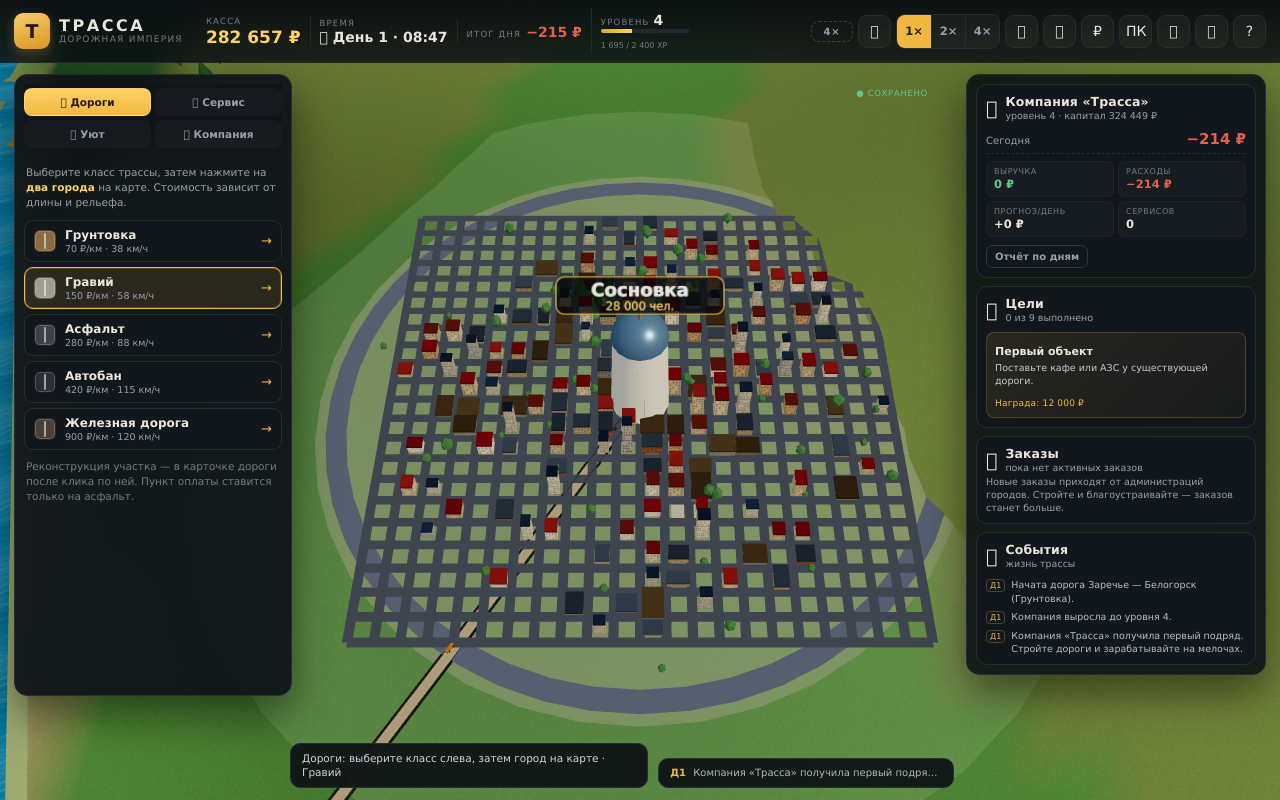
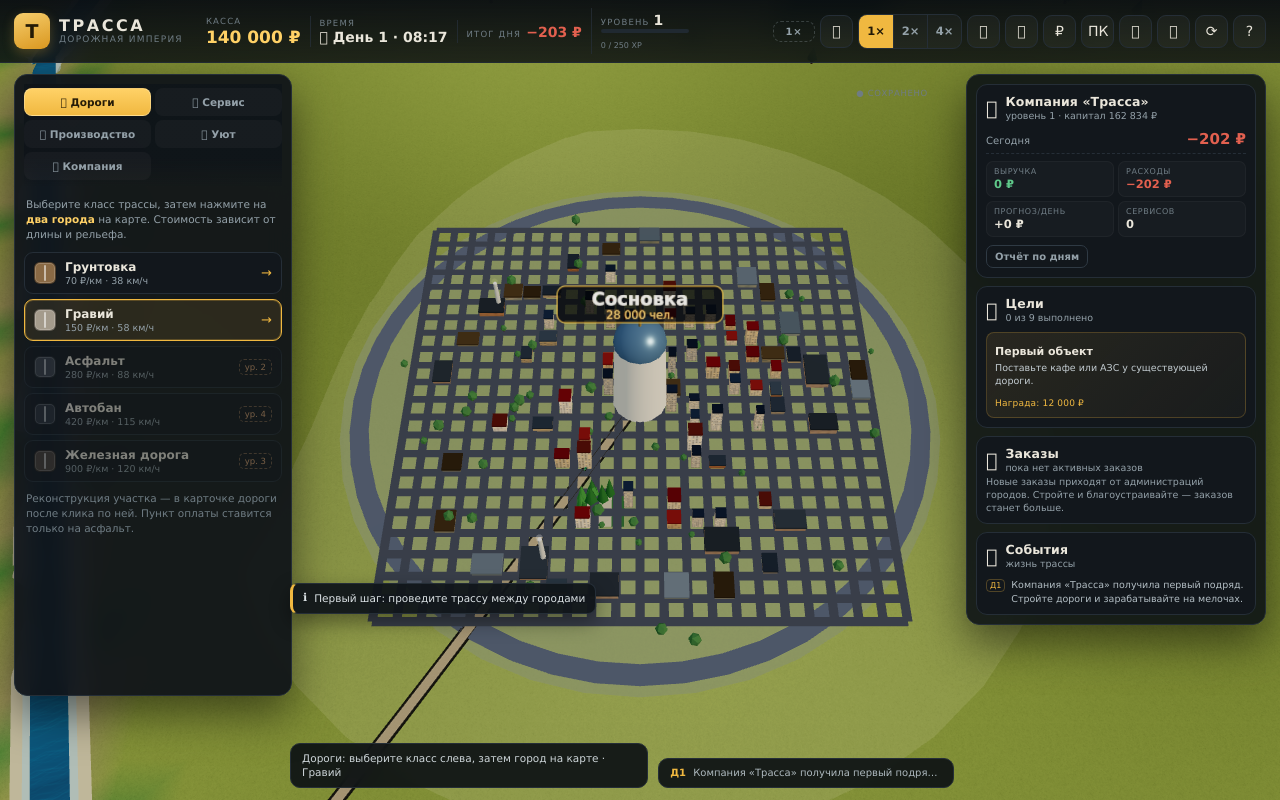
ТРАССА v1.8.1: детальные модели бизнесов, трубы промзоны, море
- facilityMesh: АЗС с пилон-стелой и магазином, кафе с маркизой и столиками, отель с балконами и бассейном,
  склад с доками и погрузчиком, цех с пилообразной крышей, элеватор с транспортёром и др.
- промзона: дымовые трубы с дымом у цехов
- море на юге карты: склон, пляж, мелководье, прибой; камыш у озёр

diff --git a/road-tycoon/src/view3d.js b/road-tycoon/src/view3d.js
@@ -268,6 +268,12 @@
     }
     const n = world.noise(x * 0.006, z * 0.006);
     h += (n - 0.5) * 0.7;
+    // Морской берег на юге карты: рельеф плавно уходит под воду
+    const coast = C.worldH - 58;
+    if (z > coast) {
+      const k = U.clamp((z - coast) / 22, 0, 1);
+      h = h * (1 - k) - 1.4 * k;
+    }
     return h;
   }
 
@@ -426,6 +432,8 @@
         else if (b === 'field') c = cField;
         else if (b === 'hill') c = cHill;
         if (Wd.riverDist(world, x, z) < 2.6 || Wd.lakeFactor(world, x, z) > 0.5) c = cSand;
+        if (z > C.worldH - 62) c = cSand;                      // пляж у моря
+        else if (z > C.worldH - 78) c = cField;                // прибрежные дюны
         const l = 0.9 + world.noise(x * 0.02, z * 0.02) * 0.22;
         col.push(c.r * l, c.g * l, c.b * l);
       }
@@ -504,6 +512,29 @@
       }
     }
 
+    // Море на юге карты: пляж, полоса прибоя и вода до самого края
+    {
+      const coastZ = C.worldH - 58;
+      const beach = new THREE.Mesh(new THREE.PlaneGeometry(C.worldW * 1.4, 26), sandMat.clone());
+      beach.rotation.x = -Math.PI / 2;
+      beach.position.set(C.worldW / 2, 0.055, coastZ - 2);
+      waterGroup.add(beach);
+      const shore = new THREE.Mesh(new THREE.PlaneGeometry(C.worldW * 1.4, 34), shallowMat);
+      shore.rotation.x = -Math.PI / 2;
+      shore.position.set(C.worldW / 2, 0.075, coastZ + 18);
+      waterGroup.add(shore);
+      const sea = new THREE.Mesh(new THREE.PlaneGeometry(C.worldW * 1.6, 220), waterMat.clone());
+      sea.rotation.x = -Math.PI / 2;
+      sea.position.set(C.worldW / 2, 0.09, coastZ + 120);
+      waterGroup.add(sea);
+      // пена у кромки
+      const foam = new THREE.Mesh(new THREE.PlaneGeometry(C.worldW * 1.4, 2.2),
+        new THREE.MeshBasicMaterial({ color: '#eaf6fb', transparent: true, opacity: 0.55 }));
+      foam.rotation.x = -Math.PI / 2;
+      foam.position.set(C.worldW / 2, 0.1, coastZ + 6);
+      waterGroup.add(foam);
+    }
+
     for (const lake of world.lakes) {
       const disc = new THREE.CircleGeometry(1, 48);
       disc.rotateX(-Math.PI / 2);
@@ -519,6 +550,15 @@
       sh.rotation.y = lake.rot;
       sh.position.set(lake.x, 0.11, lake.y);
       waterGroup.add(sh);
+      // камыш по кромке — озеро выглядит живым
+      for (let k = 0; k < 16; k++) {
+        const a = (k / 16) * Math.PI * 2 + 0.2;
+        const rx = Math.cos(a) * lake.rx * 1.12, rz = Math.sin(a) * lake.ry * 1.14;
+        const reed = new THREE.Mesh(new THREE.ConeGeometry(0.09, 0.5, 4),
+          new THREE.MeshStandardMaterial({ color: k % 3 ? '#5f7f43' : '#7d9454', roughness: 1 }));
+        reed.position.set(lake.x + rx, 0.25, lake.y + rz);
+        waterGroup.add(reed);
+      }
       // вода
       const m = new THREE.Mesh(disc, waterMat);
       m.scale.set(lake.rx, 1, lake.ry);
@@ -653,6 +693,22 @@
             w, d, h, rot: Math.round(rand() * 3) * (Math.PI / 2),
             color: t.tint[Math.floor(rand() * t.tint.length)],
           });
+          // дымовые трубы у цехов промзоны — город читается с высоты
+          if ((type === 4 || type === 5) && rand() < 0.14) {
+            const chh = 1.5 + rand() * 1.7;
+            const chm = new THREE.Mesh(
+              new THREE.CylinderGeometry(0.15, 0.2, chh, 7),
+              new THREE.MeshStandardMaterial({ color: '#cbc5b6', roughness: 0.95 })
+            );
+            chm.position.set(cx + w * 0.28, h + chh / 2, cz - d * 0.22);
+            cityGroup.add(chm);
+            const smoke = new THREE.Mesh(
+              new THREE.SphereGeometry(0.24, 7, 5),
+              new THREE.MeshBasicMaterial({ color: '#e9e7e1', transparent: true, opacity: 0.3 })
+            );
+            smoke.position.set(cx + w * 0.28, h + chh + 0.16, cz - d * 0.22);
+            cityGroup.add(smoke);
+          }
         }
       }
       // подложка города и центральная площадь
@@ -1241,6 +1297,90 @@
       g.add(bx(0.25, 0.25, 0.25, 1.0, 0.13, 3.4, '#b08b5a'));        // паллеты
     } else if (def.key === 'motel' || def.key === 'camp') {
       for (let i = -1; i <= 1; i++) g.add(bx(0.6, 0.05, 0.4, i * 0.7, 0.9 + (i + 1) * 0.05, 2.3, '#c9a86a'));
+    }
+
+    // --- детализация моделей: у каждого бизнеса свой силуэт ---
+    const glass = new THREE.MeshStandardMaterial({ color: '#9fc3d8', roughness: 0.25, metalness: 0.5 });
+    if (def.key === 'fuel') {
+      // пилон-стела с ценами (как у настоящих АЗС)
+      g.add(bx(0.06, 1.9, 0.06, -1.45, 0.95, 1.9, '#8d949a'));
+      const pylon = bx(0.62, 0.75, 0.09, -1.45, 2.05, 1.9, '#f4f1e6', 0.6);
+      g.add(pylon);
+      g.add(bx(0.5, 0.12, 0.1, -1.45, 2.28, 1.9, '#d64b3f', 0.5));
+      g.add(bx(0.5, 0.1, 0.1, -1.45, 2.05, 1.9, '#3f6fa8', 0.5));
+      // магазин при АЗС и мусорные баки
+      g.add(bx(0.7, 0.42, 0.5, 1.1, 0.21, 3.5, '#e8e2d2'));
+      g.add(bx(0.7, 0.08, 0.56, 1.1, 0.46, 3.5, '#c9502f'));
+      for (const mx of [-1.3, -1.05]) g.add(cyl(0.11, 0.28, mx, 0.14, 3.55, '#2f6b3f'));
+      // бордюры площадки
+      for (const zz of [1.2, 2.3]) g.add(bx(2.1, 0.06, 0.06, 0, 0.03, zz, '#cfc9b8'));
+    } else if (def.key === 'cafe') {
+      g.add(bx(1.15, 0.5, 0.08, 0, 0.4, 2.02, '#8a5f3c'));      // панорамное окно
+      g.add(bx(1.3, 0.08, 0.28, 0, 0.82, 1.98, '#d9734a'));     // маркиза
+      g.add(cyl(0.09, 0.55, 0.95, 0.28, 1.75, '#6a6f74'));      // вытяжка
+      for (const tx of [-0.55, 0.15]) {                          // столики
+        g.add(cyl(0.035, 0.32, tx, 0.16, 3.55, '#5a5f63'));
+        g.add(cyl(0.16, 0.04, tx, 0.33, 3.55, '#e9e2d2'));
+      }
+    } else if (def.key === 'hotel' || def.key === 'motel') {
+      for (let fy = 0; fy < 3; fy++) {
+        for (let wx = -1; wx <= 1; wx++) {
+          g.add(bx(0.22, 0.16, 0.05, wx * 0.36, 0.35 + fy * 0.28, 2.02, '#3a4a55', 0.4));
+        }
+        g.add(bx(1.25, 0.03, 0.14, 0, 0.26 + fy * 0.28, 1.94, '#cfc6b2'));
+      }
+      g.add(bx(0.9, 0.07, 0.4, 0, 0.98, 1.9, '#e9e2d2'));        // козырёк входа
+      const pool = flat(0.9, 0.5, 1.05, 3.4, '#4fa8c8', 0.045);
+      g.add(pool);
+      g.add(cyl(0.05, 0.7, -1.2, 0.35, 2.0, '#b9b2a2'));          // флагшток
+    } else if (def.key === 'shop') {
+      g.add(bx(1.4, 0.45, 0.06, 0, 0.35, 2.04, '#f0e6c8'));       // витрина
+      const glow = new THREE.Mesh(new THREE.PlaneGeometry(1.36, 0.4),
+        new THREE.MeshBasicMaterial({ color: '#ffe9a8' }));
+      glow.position.set(0, 0.35, 2.08);
+      g.add(glow);
+      for (const tx of [-1.15, -0.95]) g.add(bx(0.16, 0.14, 0.22, tx, 0.07, 2.6, '#c9c3b4')); // тележки
+    } else if (def.key === 'workshop') {
+      // пилообразная крыша цеха + ворота + труба с дымом
+      for (let k = 0; k < 3; k++) {
+        const plank = bx(0.62, 0.05, 0.75, -0.7 + k * 0.7, 0.72, 3.0, '#9aa3a8');
+        plank.rotation.z = 0.5;
+        g.add(plank);
+      }
+      g.add(bx(1.0, 0.5, 0.06, 0, 0.25, 2.02, '#8f979c'));        // рольставни
+      for (let k = 0; k < 4; k++) g.add(bx(0.96, 0.03, 0.02, 0, 0.08 + k * 0.11, 2.0, '#c8ccd0'));
+      for (const tx of [1.05, 1.05]) g.add(cyl(0.09, 0.7, tx, 0.35, 3.55, '#a7adb2'));
+      const puff = new THREE.Mesh(new THREE.SphereGeometry(0.34, 8, 6),
+        new THREE.MeshBasicMaterial({ color: '#eceae4', transparent: true, opacity: 0.28 }));
+      puff.position.set(-0.75, 2.3, 3.2);
+      g.add(puff);
+    } else if (def.key === 'warehouse') {
+      for (let k = 0; k < 3; k++) g.add(bx(0.42, 0.42, 0.05, -0.55 + k * 0.55, 0.21, 2.02, '#8b949b'));
+      g.add(bx(1.75, 0.06, 0.5, 0, 0.62, 1.95, '#b6bcc1'));       // навес над доками
+      g.add(bx(0.3, 0.22, 0.42, 1.15, 0.11, 3.3, '#d8b64a'));     // погрузчик
+      for (const pz of [3.0, 3.35]) g.add(bx(0.5, 0.3, 0.3, -1.05, 0.15, pz, '#c9a06a'));
+    } else if (def.key === 'silo') {
+      const belt = bx(0.9, 0.16, 0.2, 0.2, 1.1, 3.05, '#b6bcc1');
+      belt.rotation.z = -0.35;
+      g.add(belt);
+      g.add(bx(0.5, 0.9, 0.5, -1.1, 0.45, 3.2, '#c9c2ac'));       // нория
+    } else if (def.key === 'charge') {
+      for (const sx of [-0.45, 0.45]) {
+        g.add(bx(0.16, 0.75, 0.14, sx, 0.37, 2.7, '#e8eef2', 0.5));
+        g.add(bx(0.1, 0.16, 0.02, sx, 0.6, 2.62, '#3ec27a', 0.4));  // индикатор
+      }
+      g.add(bx(2.2, 0.05, 1.5, 0, 1.16, 2.7, '#31506b'));           // панель на навесе
+      for (let k = 0; k < 4; k++) g.add(bx(0.44, 0.02, 0.66, -0.66 + k * 0.44, 1.2, 2.7, '#5b8fc4'));
+    } else if (def.key === 'wash') {
+      for (const sx of [-0.65, 0.65]) g.add(bx(0.1, 1.05, 0.1, sx, 0.52, 2.6, '#9fb0bd'));
+      g.add(bx(1.5, 0.1, 0.12, 0, 1.03, 2.6, '#9fb0bd'));
+      for (const sx of [-0.58, 0.58]) g.add(cyl(0.1, 0.8, sx, 0.4, 2.6, '#7fa8c9'));
+      g.add(flat(1.2, 0.6, 0, 2.75, '#3f6a80', 0.05));
+    } else if (def.key === 'repair' || def.key === 'tire') {
+      g.add(bx(0.9, 0.12, 0.4, 0, 0.3, 2.35, '#d8b64a'));         // подъёмник
+      for (const sx of [-0.7, 0.7]) g.add(bx(0.08, 0.3, 0.4, sx, 0.15, 2.35, '#8b949b'));
+      for (let k = 0; k < 3; k++) g.add(cyl(0.17, 0.1, 1.15, 0.06 + k * 0.1, 3.35, '#2c2f33')); // покрышки
+      g.add(bx(0.7, 0.5, 0.3, -1.05, 0.25, 3.35, '#a4553c'));      // верстак
     }
 
     // вывеска на стойке у заезда

diff --git a/road-tycoon/docs/STATE.md b/road-tycoon/docs/STATE.md
@@ -27,6 +27,18 @@
 * **Вода:** русло + мелководье + песчаная отмель отдельными слоями, вода с низкой шероховатостью
   и металличностью (блики неба), камыш по берегам; у озёр — отмель, мелководье, вода и камыш по кромке.
 
+## v1.8.1 — детальные модели бизнесов, трубы промзоны, море
+
+* **Модели бизнесов переработаны** (аддитивные детали в `facilityMesh`): АЗС — пилон-стела с ценами,
+  магазин при заправке, баки, бордюры; кафе — панорамное окно, маркиза, вытяжка, столики;
+  отель/мотель — три ряда балконов, козырёк, бассейн, флагшток; магазин — светящаяся витрина, тележки;
+  цех — пилообразная крыша, рольставни, труба с дымом; склад — три дока, навес, погрузчик, паллеты;
+  элеватор — транспортёр и нория; электрозаправка — солнечные панели и индикаторы;
+  мойка — портал со щётками; СТО/шиномонтаж — подъёмник, верстак, стопка покрышек.
+* **Промзона:** у цехов и складов на окраинах появились дымовые трубы с дымом.
+* **Море на юге карты:** береговой склон в `baseHeight`, песчаный пляж в цветах рельефа,
+  полоса мелководья, вода до края карты, линия прибоя; у озёр — камыш по кромке.
+
 ## v1.8 — ответвления от дорог, прогресс на карте, понятная стройка
 
 * **Ответвление без повторного выбора городов.** Если начать трассу кликом по существующей дороге
